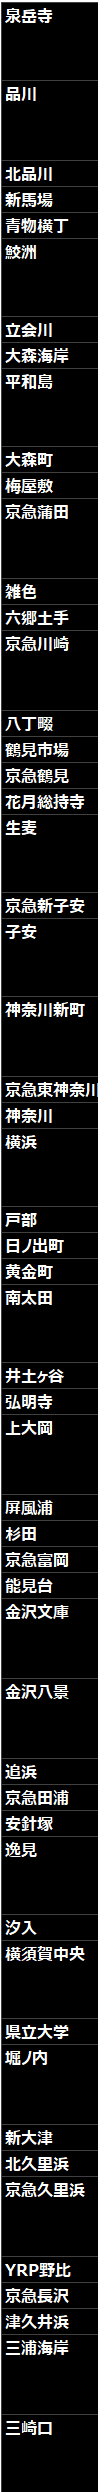
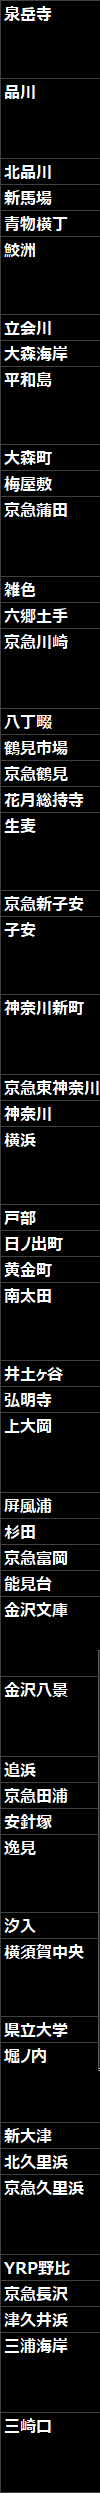
Add files via upload

Changed region(s): [[0.0, 0.0, 1.0, 1.0], [0.9796, 0.6489, 1.0, 0.8343]]

diff --git a/keikyu/weekday/down/index.html b/keikyu/weekday/down/index.html
@@ -75,8 +75,8 @@
 
 <script>
     // 画像の元サイズ定義
-    const imgWidthLeft = 98, imgHeightLeft = 2492;
-    const imgWidthRight = 29220, imgHeightRight = 2493;
+    const imgWidthLeft = 100, imgHeightLeft = 2493;
+    const imgWidthRight = 29281, imgHeightRight = 2493;
 
     // 【重要】初期の拡大率を 1.0 (100%) から 0.7 (70%) に変更
     let currentScale = 0.7; 
